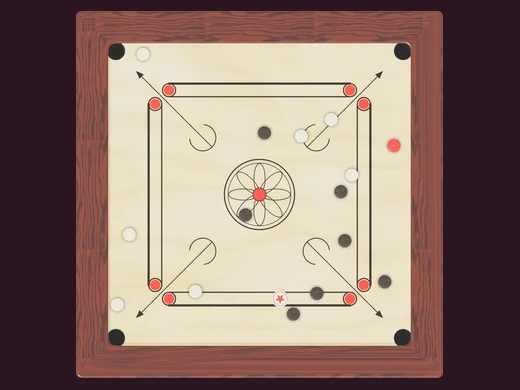
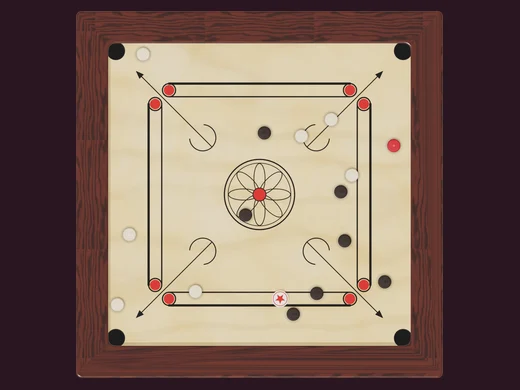
キャロム：アイコンを共通ルールで作り直し、駒のちらつき対策、トップのスクリーンショットを光を抑えて撮り直し
- ポータルのアイコン：大きくデフォルメしたクイーンが盤の上で跳ねる形に。app.js の R3 に carrom を追加（未登録で3Dアイコンが出ていなかった）
- 駒：バンプマップをやめ、自己影（シャドウアクネ）を切り、面の細かいノイズを弱める。接地影を少し浮かせる
- トップ・一覧のスクリーンショット：露出と環境光を下げて白飛びをなくした
- 仕様：ポータルに新しいゲームを足すときは R3 にも足す

Claude-Session: https://claude.ai/code/session_019p8B6UqeAdsK6vNEgpDiqd

diff --git a/atlas/icons3d.js b/atlas/icons3d.js
@@ -716,30 +716,27 @@
       g.add(at(pawn(0xe2403a, 1.6), -.15, 1.85, .1, .38, 0, -.3));
       return g;
     },
-    carrom() {   // a corner of a carrom board: honey plywood, a black pocket at the far corner with the arrow pointing to it, the base
-      // line with its red circle; a white and a black man near the pocket, the striker with its red star, the red queen hopping in
+    carrom() {   // a corner of a carrom board (honey plywood, a deep pocket, the arrow pointing into it, the base line with its red circle);
+      // a white and a black man and the striker (its red star) on the board, the big red queen leaping high over it
       const U = v => (v - .5) * 3.1;   // texture → board (the face is 3.1 across)
-      const top = M({ map: X.canvasTex('iccr2', 512, 512, (g, W) => {
+      const top = M({ map: X.canvasTex('iccr3', 512, 512, (g, W) => {
         g.translate(W, 0); g.scale(-1, 1);   // (mirrored: the pocket at the far corner of the diamond)
         const gr = g.createLinearGradient(0, 0, W, W); gr.addColorStop(0, '#f2dba8'); gr.addColorStop(1, '#e4c283'); g.fillStyle = gr; g.fillRect(0, 0, W, W);
         g.globalAlpha = .12; g.strokeStyle = '#8a5a26'; g.lineWidth = 3; for (let y = 8; y < W; y += 22) { g.beginPath(); g.moveTo(0, y); g.bezierCurveTo(W * .3, y + 9, W * .6, y - 9, W, y + 4); g.stroke(); } g.globalAlpha = 1;
-        g.fillStyle = '#121010'; g.beginPath(); g.arc(W * .13, W * .13, W * .1, 0, 7); g.fill();   // the pocket
-        g.strokeStyle = '#1d140e'; g.lineWidth = 8; g.lineCap = 'round'; g.beginPath(); g.moveTo(W * .33, W * .33); g.lineTo(W * .68, W * .68); g.stroke();
-        g.fillStyle = '#1d140e'; g.beginPath(); g.moveTo(W * .29, W * .29); g.lineTo(W * .4, W * .34); g.lineTo(W * .34, W * .4); g.closePath(); g.fill();
-        g.lineWidth = 6; g.beginPath(); g.moveTo(W * .58, W * .86); g.lineTo(W, W * .86); g.moveTo(W * .58, W * .96); g.lineTo(W, W * .96); g.stroke();
-        g.fillStyle = '#c3271f'; g.lineWidth = 5; g.beginPath(); g.arc(W * .56, W * .91, W * .05, 0, 7); g.fill(); g.stroke();
-        g.lineWidth = 6; g.beginPath(); g.arc(W * .9, W * .45, W * .07, Math.PI * .7, Math.PI * 1.9); g.stroke();
-      }), roughness: .28 });
+        g.fillStyle = '#121010'; g.beginPath(); g.arc(W * .17, W * .17, W * .13, 0, 7); g.fill();   // the pocket
+        g.strokeStyle = '#1d140e'; g.lineWidth = 9; g.lineCap = 'round'; g.beginPath(); g.moveTo(W * .38, W * .38); g.lineTo(W * .7, W * .7); g.stroke();
+        g.fillStyle = '#1d140e'; g.beginPath(); g.moveTo(W * .33, W * .33); g.lineTo(W * .46, W * .39); g.lineTo(W * .39, W * .46); g.closePath(); g.fill();
+        g.lineWidth = 7; g.beginPath(); g.moveTo(W * .6, W * .84); g.lineTo(W, W * .84); g.moveTo(W * .6, W * .95); g.lineTo(W, W * .95); g.stroke();
+        g.fillStyle = '#c3271f'; g.lineWidth = 5; g.beginPath(); g.arc(W * .57, W * .895, W * .055, 0, 7); g.fill(); g.stroke();
+      }), roughness: .3 });
       const g = boardChunk(4, 3.6, top, C(0x6a2717, { roughness: .32 }));
-      const man = (hex, r, h, ring) => { const P = []; for (let k = 0; k <= 6; k++) { const a = -Math.PI / 2 + k / 6 * Math.PI; P.push(new T.Vector2(r - h / 2 + Math.cos(a) * h / 2, h / 2 + Math.sin(a) * h / 2)); } P.unshift(new T.Vector2(0, 0)); P.push(new T.Vector2(0, h));
-        const d = new T.Group(); d.add(mesh(new T.LatheGeometry(P, 48), C(hex, { roughness: .26 })));
-        if (ring) { const t = mesh(new T.TorusGeometry(r * .6, r * .055, 8, 40), C(ring, { roughness: .35 })); t.rotation.x = Math.PI / 2; t.position.y = h + .002; d.add(t); }
-        return d; };
-      g.add(at(man(0xf3e6c8, .4, .17, 0xc4a06a), U(.5), .5, U(.2)));
-      g.add(at(man(0x2a1f19, .4, .17, 0x6a5240), U(.8), .5, U(.52)));
-      const st = man(0xf7f4ee, .5, .19); const star = mesh(new T.CircleGeometry(.24, 5), C(0xc3271f, { roughness: .4 })); star.rotation.x = -Math.PI / 2; star.position.y = .196; st.add(star);
-      g.add(at(st, U(.24), .5, U(.74)));
-      g.add(at(man(0xc8262b, .56, .22, 0x7a1210), U(.3), 1.25, U(.62), .55, 0, .2));
+      const disc = (hex, r, h, ring) => { const d = new T.Group(); d.add(puck(r, h, C(hex, { roughness: .3 }), .42)); if (ring) { const t = mesh(new T.TorusGeometry(r * .62, r * .07, 10, 40), C(ring, { roughness: .3 })); t.rotation.x = Math.PI / 2; t.position.y = h; d.add(t); } return d; };
+      g.add(at(disc(0xf3e6c8, .46, .24, 0xd8bf8e), U(.5), .5, U(.22)));
+      g.add(at(disc(0x2a1f19, .46, .24, 0x4a3a2e), U(.82), .5, U(.5)));
+      const st = disc(0xf7f4ee, .56, .22); const star = mesh(new T.CircleGeometry(.26, 5), C(0xc3271f, { roughness: .4 })); star.rotation.x = -Math.PI / 2; star.position.y = .226; st.add(star);
+      g.add(at(st, U(.3), .5, U(.74)));
+      // the queen: a fat red puck with a turned ring, leaping
+      const q = disc(0xc8262b, .6, .34, 0xe04a4a); q.scale.setScalar(1.45); g.add(at(q, .25, 1.95, -.25, .45, 0, -.3));
       return g;
     },
     ur() {   // a corner of the Ur board: shell plaques (a rosette, eyes, five circles) on a lapis grid in a black frame with a

diff --git a/atlas/models/carrom.js b/atlas/models/carrom.js
@@ -136,7 +136,7 @@
       const N = X.makeNoise(kind.length * 7 + kind.charCodeAt(0));
       if (kind === 'w' || kind === 'b' || kind === 'q') {   // grain + turned rings
         const img = g.getImageData(0, 0, W, W), d = img.data;
-        for (let y = 0; y < W; y++) for (let x = 0; x < W; x++) { const n = N(x / W * 3, y / W * 22, 3), i = (y * W + x) * 4, k = (n - .5) * (kind === 'w' ? 34 : kind === 'b' ? 26 : 22); d[i] += k; d[i + 1] += k; d[i + 2] += k; }
+        for (let y = 0; y < W; y++) for (let x = 0; x < W; x++) { const n = N(x / W * 2, y / W * 9, 2), i = (y * W + x) * 4, k = (n - .5) * (kind === 'w' ? 14 : kind === 'b' ? 12 : 10); /* soft grain: fine contrast shimmered on small men */ d[i] += k; d[i + 1] += k; d[i + 2] += k; }
         g.putImageData(img, 0, 0);
         g.strokeStyle = kind === 'b' ? 'rgba(255,230,200,.18)' : 'rgba(60,30,10,.32)';
         for (const r of [.88, .62, .36]) { g.lineWidth = W * .018; g.beginPath(); g.arc(c, c, c * r, 0, 7); g.stroke(); }
@@ -148,7 +148,7 @@
         g.closePath(); g.fill();
       } else {   // modern: matte, a brass pip (men) or a brass ring (striker)
         const img = g.getImageData(0, 0, W, W), d = img.data;
-        for (let i = 0; i < d.length; i += 4) { const r = (Math.random() - .5) * 10; d[i] += r; d[i + 1] += r; d[i + 2] += r; }
+        for (let i = 0; i < d.length; i += 4) { const r = (Math.random() - .5) * 3; d[i] += r; d[i + 1] += r; d[i + 2] += r; }
         g.putImageData(img, 0, 0);
         g.strokeStyle = kind === 'mb' ? 'rgba(255,255,255,.12)' : 'rgba(0,0,0,.12)'; g.lineWidth = W * .012; g.beginPath(); g.arc(c, c, c * .72, 0, 7); g.stroke();
         g.fillStyle = '#c69a45';
@@ -226,7 +226,7 @@
     return mat('pc' + m, () => {
       const t = faceTex(m), side = { w: '#e7d3ad', b: '#211813', q: '#a91f22', s: '#ece8de', mw: '#e3dccb', mb: '#26252a', mq: '#d55d45', ms: '#e7dcc5' }[m];
       const glossy = look === 'classic';
-      const top = phys({ map: t, color: '#ffffff', roughness: glossy ? (c === 's' ? .22 : .32) : .62, clearcoat: glossy ? .6 : undefined, clearcoatRoughness: glossy ? .2 : undefined, envMapIntensity: glossy ? 1 : .6, bumpMap: t, bumpScale: .002 });
+      const top = phys({ map: t, color: '#ffffff', roughness: glossy ? (c === 's' ? .3 : .38) : .62, clearcoat: glossy ? .35 : undefined, clearcoatRoughness: glossy ? .35 : undefined, envMapIntensity: glossy ? .85 : .6 });   // (no bump map: on discs this small it sparkled as the camera moved)
       return { top, side: phys({ color: side, roughness: glossy ? .34 : .6, clearcoat: glossy ? .5 : undefined, clearcoatRoughness: glossy ? .25 : undefined, envMapIntensity: glossy ? .9 : .55 }) };
     });
   }
@@ -234,7 +234,7 @@
   // the rim keeps the face's colour from the texture's border — the face map is a solid base colour at its edges
   function pieceGroup(look, c) {
     const TT = T(), striker = c === 's', r = striker ? RS : RM, h = striker ? HS : HM, M2 = pieceMat(look, c);
-    const g = new TT.Group(), body = new TT.Mesh(discGeo(r, h), M2.top); body.castShadow = body.receiveShadow = true; g.add(body);
+    const g = new TT.Group(), body = new TT.Mesh(discGeo(r, h), M2.top); body.castShadow = true; body.receiveShadow = false; g.add(body);   // (no self-shadow: thin discs flickered with shadow acne)
     if (look === 'modern' && striker) { const ring = new TT.Mesh(geos.ring || (geos.ring = (() => { const q = new TT.TorusGeometry(r - .004, .006, 6, 36); q.rotateX(Math.PI / 2); if (X.share) X.share(q); return q; })()), boardMats('modern').brass); ring.position.y = h * .55; g.add(ring); }
     g.userData = { c, r, h };
     return g;
@@ -279,9 +279,9 @@
     pcs.forEach(p => {
       const c = p.c, m = U.piece(c), [dx, dy] = nudge[p.id] || [0, 0], mv = moved[p.id], [x, z] = mv ? U.xz(mv[0], mv[1]) : U.xz(p.x + dx, p.y + dy);
       m.position.set(x, TOP, z); g.add(m);
-      const sh = X.contact(RM * 1.15, .4); sh.position.set(x, TOP + .002, z); g.add(sh);
+      const sh = X.contact(RM * 1.15, .4); sh.position.set(x, TOP + .004, z); g.add(sh);
     });
-    const st = U.striker(), [x, z] = U.xz(-6, 25.26); st.position.set(x, TOP, z); g.add(st); const sh = X.contact(RS * 1.15, .45); sh.position.set(x, TOP + .002, z); g.add(sh);
+    const st = U.striker(), [x, z] = U.xz(-6, 25.26); st.position.set(x, TOP, z); g.add(st); const sh = X.contact(RS * 1.15, .45); sh.position.set(x, TOP + .004, z); g.add(sh);
     return g;
   };
   X.carrom = { board, LOOKS, K };

diff --git a/atlas/index.html b/atlas/index.html
@@ -1635,9 +1635,9 @@ html:has(#bv.on,#hist.on,#ov.on,.lvsheet) :is(.updline,#gsSeg),.updline[hidden],
 <script src="../ludo/board2d.js?v=1"></script>
 <script src="models/ludo.js?v=3"></script>
 <script src="../carrom/engine.js?v=1"></script>
-<script src="models/carrom.js?v=1"></script>
+<script src="models/carrom.js?v=2"></script>
 <script src="models/cardtables.js?v=4"></script>
-<script src="icons3d.js?v=33"></script>
+<script src="icons3d.js?v=34"></script>
 <script src="games/reversi.js?v=29"></script>
 <script src="games/shogi-play.js?v=17"></script>
 <script src="games/shogi.js?v=14"></script>
@@ -1665,7 +1665,7 @@ html:has(#bv.on,#hist.on,#ov.on,.lvsheet) :is(.updline,#gsSeg),.updline[hidden],
 <script src="games/senet.js?v=14"></script>
 <script src="games/agon.js?v=7"></script>
 <script src="games/ludo.js?v=17"></script>
-<script src="games/carrom.js?v=1"></script>
+<script src="games/carrom.js?v=2"></script>
 <script>/* rules tours: after a solved step, the ▶ button fills up like a timer until the tour moves on by itself */
 window.AtlasRgdTimer = function (btn, ms, alive) {
   if (!btn) return; btn.classList.remove('rgd-auto'); void btn.offsetWidth; btn.style.setProperty('--rgt', ms + 'ms'); btn.classList.add('rgd-auto');
@@ -1699,7 +1699,7 @@ window.AtlasRgdTimer = function (btn, ms, alive) {
 <script src="rules/mancala.js?v=3"></script>
 <script src="rules/dots.js?v=2"></script>
 <script src="rules/ludo.js?v=2"></script>
-<script src="rules/carrom.js?v=1"></script>
+<script src="rules/carrom.js?v=2"></script>
 <link rel="stylesheet" href="historia.css?v=15">
 <script src="historia.js?v=34"></script>
 <link rel="stylesheet" href="skin/loading.css?v=2">
@@ -1707,10 +1707,10 @@ window.AtlasRgdTimer = function (btn, ms, alive) {
 <script src="gacha3d.js?v=7"></script>
 <script src="../shared/resign.js?v=3"></script><script src="../shared/drawoffer.js?v=1"></script>
 <script src="../shared/tick.js?v=2"></script>
-<script src="gamelist.js?v=21"></script>
+<script src="gamelist.js?v=22"></script>
 <link rel="stylesheet" href="worldmap.css?v=18">
 <script src="worldmap.js?v=29"></script>
 <script src="updnews.js?v=7"></script>
-<script src="app.js?v=234"></script>
+<script src="app.js?v=235"></script>
 </body>
 </html>

diff --git a/atlas/tools/topdown.html b/atlas/tools/topdown.html
@@ -16,18 +16,18 @@
   const X = window.Table3D; if (X.BOARDS[id]) X.BOARDS[id].set(look);
   const R = new THREE.WebGLRenderer({ antialias: true, alpha: true, preserveDrawingBuffer: true });
   R.setPixelRatio(1); R.setSize(S, S); R.shadowMap.enabled = true; R.shadowMap.type = THREE.PCFSoftShadowMap;
-  R.outputEncoding = THREE.sRGBEncoding; R.toneMapping = THREE.ACESFilmicToneMapping; R.toneMappingExposure = .82;
+  R.outputEncoding = THREE.sRGBEncoding; R.toneMapping = THREE.ACESFilmicToneMapping; R.toneMappingExposure = .7;
   R.physicallyCorrectLights = false;
   document.body.appendChild(R.domElement);
   const scene = new THREE.Scene();
-  scene.add(new THREE.HemisphereLight(0xfffaf0, 0x8a7060, .55));
-  const key = new THREE.DirectionalLight(0xffffff, .85); key.position.set(-4, 14, 6); key.castShadow = true;
+  scene.add(new THREE.HemisphereLight(0xfffaf0, 0x8a7060, .45));
+  const key = new THREE.DirectionalLight(0xffffff, .72); key.position.set(-4, 14, 6); key.castShadow = true;
   key.shadow.mapSize.set(2048, 2048); Object.assign(key.shadow.camera, { left: -7, right: 7, top: 7, bottom: -7, near: 1, far: 40 }); key.shadow.bias = -.0004;
   scene.add(key);
   // a soft studio room for the reflections
   const pm = new THREE.PMREMGenerator(R), env = new THREE.Scene();
-  const box = new THREE.Mesh(new THREE.BoxGeometry(30, 30, 30), new THREE.MeshBasicMaterial({ color: 0xf2ece2, side: THREE.BackSide })); env.add(box);
-  const lamp = new THREE.Mesh(new THREE.PlaneGeometry(10, 10), new THREE.MeshBasicMaterial({ color: 0xffffff })); lamp.position.set(0, 14, 0); lamp.rotation.x = Math.PI / 2; env.add(lamp);
+  const box = new THREE.Mesh(new THREE.BoxGeometry(30, 30, 30), new THREE.MeshBasicMaterial({ color: 0x9a948c, side: THREE.BackSide })); env.add(box);
+  const lamp = new THREE.Mesh(new THREE.PlaneGeometry(10, 10), new THREE.MeshBasicMaterial({ color: 0x8c8c8c })); lamp.position.set(0, 14, 0); lamp.rotation.x = Math.PI / 2; env.add(lamp);
   scene.environment = pm.fromScene(env, .04).texture;
   const g = X.MODELS[id](true); scene.add(g);
   if (id === 'carrom') {   // a game in progress

diff --git a/index.html b/index.html
@@ -858,7 +858,7 @@ const GAMES = [
   { id:'ur',         href:'./ur/',            thumb:'images/ur.webp',          icon:'images/icons/ur.svg',          cat:'hist', also:['race'], kind:'BOARD GAME', key:'ur',   isNew:true,  tags:['classic','ai','online','rated','lessons','puzzles','variants','mobile'], facts:{ ai:20, players:'1–2' } },
   { id:'senet',      href:'./senet/',         thumb:'images/senet.webp?v=2',       icon:'images/icons/senet.svg?v=2',       cat:'hist', also:['race'], kind:'BOARD GAME', key:'sn',   isNew:true,  tags:['classic','ai','online','rated','lessons','puzzles','variants','mobile'], facts:{ ai:20, players:'1–2' } },
   { id:'ludo',       href:'./ludo/',          thumb:'images/ludo.webp?v=2',          icon:'images/icons/ludo.svg',            cat:'race', also:['hist'], kind:'BOARD GAME', key:'ld',   isNew:true, beta:1,  tags:['classic','ai','rated','lessons','variants','mobile'], facts:{ ai:20, lessons:10, players:'1–4' } },
-  { id:'carrom',     href:'./atlas/#games/carrom', thumb:'images/carrom.webp',  icon:'images/icons/carrom.svg',          cat:'action', kind:'3D BOARD GAME', key:'cr',   isNew:true, beta:1,  tags:['classic','ai','mobile'], facts:{ ai:20, players:'1–2' } },
+  { id:'carrom',     href:'./atlas/#games/carrom', thumb:'images/carrom.webp?v=2',  icon:'images/icons/carrom.svg',          cat:'action', kind:'3D BOARD GAME', key:'cr',   isNew:true, beta:1,  tags:['classic','ai','mobile'], facts:{ ai:20, players:'1–2' } },
   { id:'reversi-v3', href:'./reversi_v3.html',thumb:'images/reversi_v3.webp',  icon:'images/icons/reversi-v3.svg?v=3',  cat:'old',     kind:'BOARD GAME', key:'rv3',  tags:['mobile'], facts:{ players:'1–2' } },
 ];
 const GX_CATS = ['all', 'board', 'puzzle', 'card', 'chess', 'line', 'race', 'hist', 'action', 'old'];   // 'classic' and 'card' are tag chips (filter on g.tags)   // same categories as the portal (atlas) + previous versions

diff --git a/atlas/app.js b/atlas/app.js
@@ -113,7 +113,7 @@
   }
 
   /* ---------- common renderers ---------- */
-  const R3 = new Set(['reversi', 'shogi', 'chess', 'gomoku', 'dots', 'connect4', 'mancala', 'backgammon', 'morris', 'sudoku', 'speedsudoku', 'checkers', 'samegame', 'go', 'hex', 'tafl', 'xiangqi', 'jailbreak', 'solitaire', 'poker', 'baccarat', 'blackjack', 'fanorona', 'alquerque', 'ur', 'ugolki', 'agon', 'konane', 'senet', 'janggi', 'ludo']);   // images/atlas/<id>.webp exists
+  const R3 = new Set(['reversi', 'shogi', 'chess', 'gomoku', 'dots', 'connect4', 'mancala', 'backgammon', 'morris', 'sudoku', 'speedsudoku', 'checkers', 'samegame', 'go', 'hex', 'tafl', 'xiangqi', 'jailbreak', 'solitaire', 'poker', 'baccarat', 'blackjack', 'fanorona', 'alquerque', 'ur', 'ugolki', 'agon', 'konane', 'senet', 'janggi', 'ludo', 'carrom']);   // images/atlas/<id>.webp exists
   const artSrc = g => R3.has(g.id) ? `../images/atlas/${g.id}.webp?v=${g.id === 'fanorona' || g.id === 'janggi' ? 11 : 10}` : `../${g.icon}`;
   const artImg = (g, extra = '') => `<img src="${artSrc(g)}" alt="" loading="lazy" decoding="async"${R3.has(g.id) ? '' : ' class="flat"'}${extra}>`;
   const g3 = g => `<span class="g3" style="--c:${g.color}">${artImg(g)}</span>`;

diff --git a/atlas/gamelist.js b/atlas/gamelist.js
@@ -5,7 +5,7 @@
   'use strict';
   const SHOTS = new Set(['shogi', 'chess', 'checkers', 'ugolki', 'fanorona', 'alquerque', 'xiangqi', 'janggi', 'tafl', 'reversi', 'go', 'gomoku', 'dots', 'connect4', 'morris', 'hex',
     'mancala', 'backgammon', 'sudoku', 'speedsudoku', 'samegame', 'jailbreak', 'poker', 'baccarat', 'blackjack', 'solitaire', 'ur', 'agon', 'konane', 'senet', 'ludo', 'carrom']);
-  const SHOT_V = 8;                                   // bump after regenerating the thumbnails
+  const SHOT_V = 9;                                   // bump after regenerating the thumbnails
   const FX = ['ai', 'online', 'lessons', 'puzzles'];  // the feature icons shown on a card (labels come from the tag.* strings)
 
   const IC = {   // small line icons for the footer buttons

diff --git a/atlas/rules/carrom.js b/atlas/rules/carrom.js
@@ -203,7 +203,7 @@
     /* ---------- the men: kept from page to page; only the new ones drop in ---------- */
     let meshes = [];   // { c, x, y, g }
     let striker = null;
-    function mk(c) { const g = c === 's' ? U.striker() : U.piece(c), sh = T3.contact((c === 's' ? U.RS : U.R) * 1.15, .42); sh.position.y = .002; g.add(sh); board.add(g); return g; }
+    function mk(c) { const g = c === 's' ? U.striker() : U.piece(c), sh = T3.contact((c === 's' ? U.RS : U.R) * 1.15, .42); sh.position.y = .004; g.add(sh); board.add(g); return g; }
     function put(g, x, y, h) { const [a, b] = wx(x, y); g.position.set(a, Y + (h || 0), b); }
     function stage0(pg) {   // the engine state for the page
       const s = E.newBoard(); s.brk.done = true;

diff --git a/atlas/games/carrom.js b/atlas/games/carrom.js
@@ -96,7 +96,7 @@
     /* ---------- the men and the striker ---------- */
     const pcs = [];   // index = engine id
     let striker = null;
-    function mk(c, r) { const g = c === 's' ? U.striker() : U.piece(c), sh = T3.contact(r * 1.15, .42); sh.position.y = .002; g.add(sh); board.add(g); return g; }
+    function mk(c, r) { const g = c === 's' ? U.striker() : U.piece(c), sh = T3.contact(r * 1.15, .42); sh.position.y = .004; g.add(sh); board.add(g); return g; }
     function placeMesh(g, x, y, h) { const [a, b] = wx(x, y); g.position.set(a, Y + (h || 0), b); }
     function build() {
       pcs.forEach(g => board.remove(g)); pcs.length = 0;

diff --git a/claude/atlas-portal-spec.md b/claude/atlas-portal-spec.md
@@ -47,4 +47,4 @@ URL: https://core-calmdust.github.io/aicoding/atlas/  ／ 詳細: repo の atlas
 - 進捗系のキーは合算マージ、対局中データや設定は新しい方を採用
 
 ## ゲーム追加の手順
-GAMES に追加（store 含む）→ i18n.js に hist.<id>（歴史・雑学、14言語）→ READ に進捗読み取り → UPDATES に1行 → icons3d.js にアイコンシーン＋書き出し → table3d.js に盤モデル → 3D対局は games/<id>.js → ゲームページに `HeaderBar.init` を入れておけば、ポータル版でもロゴ横のゲーム名・メニューが自動で出る
+GAMES に追加（store 含む）→ i18n.js に hist.<id>（歴史・雑学、14言語）→ READ に進捗読み取り → UPDATES に1行 → icons3d.js にアイコンシーン＋書き出し（書き出したら `atlas/app.js` の `R3` に id を足す。足さないとポータルに3Dアイコンが出ない）→ table3d.js に盤モデル → 3D対局は games/<id>.js → ゲームページに `HeaderBar.init` を入れておけば、ポータル版でもロゴ横のゲーム名・メニューが自動で出る
